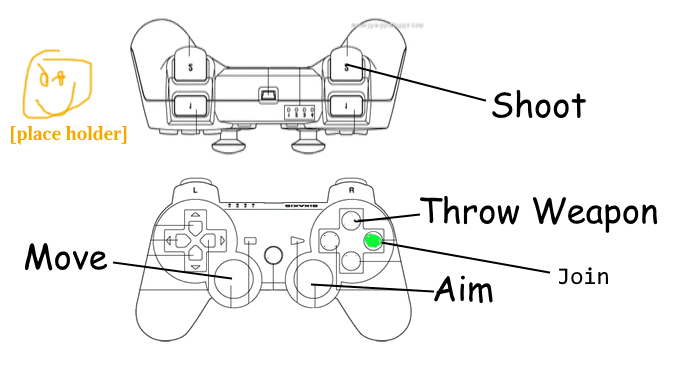
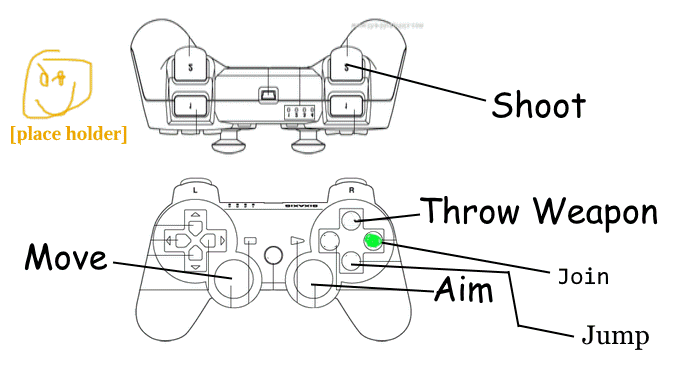
jump explosion

Changed region(s): [[0.8077, 0.8417, 0.963, 0.9288], [0.5281, 0.6966, 0.7456, 0.7256], [0.7456, 0.7256, 0.8077, 0.8707]]

diff --git a/Assets/Scripts/Weapons/WeaponUser.cs b/Assets/Scripts/Weapons/WeaponUser.cs
@@ -17,7 +17,14 @@ public class WeaponUser : MonoBehaviour
     public Weapon carriedWeapon = null;
     [HideInInspector] public int shotsFired = 0;
 
-    bool shooting = false;
+    private bool shooting = false;
+
+    private GroundChecker groundChecker;
+
+    private void Start()
+    {
+        groundChecker = GetComponent<GroundChecker>();
+    }
 
     private void Update()
     {
@@ -29,19 +36,28 @@ public class WeaponUser : MonoBehaviour
 
     private void OnFire(InputValue value)
     {
-        if(value.Get<float>() > 0.5f)
-        {
+        if(value.Get<float>() > 0.5f) {
             shooting = true;
             //TryFireWeapon();
         }
-        else
-        {
+        else {
             shooting= false;
         }
     }
     private void OnNorthButtonDown(InputValue value)
     {
-        ThrowWeapon();
+        if(groundChecker == null)
+        {
+            ThrowWeapon();
+            return;
+        }
+
+        if(groundChecker.IsGrounded) {
+            ThrowWeapon();
+        }
+        else {
+            ThrowWeaponExplosivly();
+        }
     }
 
     private void TryFireWeapon()
@@ -121,6 +137,40 @@ public class WeaponUser : MonoBehaviour
             wpRb.AddForce(transform.TransformDirection(Vector3.up) * 3f, ForceMode.Impulse);
             collider.isTrigger = false;
         }
+
+        carriedWeapon = null;
+    }
+
+    private void ThrowWeaponExplosivly()
+    {
+        if (carriedWeapon == null) { return; }
+        //if (carriedWeapon.ammoCount > 0) { return; } // TODO: Once ammo count is balanced, enable this check.
+
+        Collider collider = carriedWeapon.GetComponent<Collider>();
+        if (collider == null)
+        {
+            Destroy(carriedWeapon.gameObject);
+            carriedWeapon = null;
+            return;
+        }
+
+        Vector3 dropPosition = transform.position + transform.forward * 1.5f;
+        dropPosition.y += 1f;
+        Quaternion dropRotation = Quaternion.Euler(45f, 0, 0f);
+
+        carriedWeapon.gameObject.SetActive(true);
+        carriedWeapon.transform.position = dropPosition;
+        carriedWeapon.transform.rotation *= dropRotation;
+        carriedWeapon.transform.SetParent(null);
+        collider.enabled = true;
+
+        Rigidbody wpRb = carriedWeapon.AddComponent<Rigidbody>();
+
+        Vector3 launchDirection = carriedWeapon.transform.forward.normalized;
+        wpRb.AddForce(launchDirection * weaponLaunchForce * 5f, ForceMode.Impulse);
+        collider.isTrigger = false;
+
+        carriedWeapon.ReadyExplodeOnImpact();
 
         carriedWeapon = null;
     }

diff --git a/Assets/Scripts/Weapons/Weapon.cs b/Assets/Scripts/Weapons/Weapon.cs
@@ -17,6 +17,10 @@ public class Weapon : MonoBehaviour
     [SerializeField] protected float ammoSpeed = 3f;
     [SerializeField] protected Vector3 ammoDirOffSet = Vector3.zero;
     [SerializeField] protected float destroyDelay = 5f;
+
+    [SerializeField] protected GameObject explosionPrefab;
+    protected bool explodeOnImpact = false;
+
     protected int shotsFired = 0;
 
     public virtual bool TryShoot()
@@ -88,12 +92,18 @@ public class Weapon : MonoBehaviour
 
     private void OnCollisionEnter(Collision collision)
     {
-        if (collision.gameObject.TryGetComponent<KnockBackHandler>(out KnockBackHandler hit))
-        {
+        if(explodeOnImpact) {
+            if(explosionPrefab != null) {
+                Instantiate(explosionPrefab, transform.position, Quaternion.identity);
+                Destroy(gameObject);
+                return;
+            }
+        }
+
+        if (collision.gameObject.TryGetComponent<KnockBackHandler>(out KnockBackHandler hit)) {
             Rigidbody rb = gameObject.GetComponent<Rigidbody>();
 
-            if(rb != null) 
-            {
+            if(rb != null)  {
                 Vector3 dir = rb.velocity.normalized;
                 dir.y = 0;
                 Vector3 velocityCheck = rb.velocity;
@@ -106,8 +116,12 @@ public class Weapon : MonoBehaviour
         DestroyAfterDelay();
     }
 
-    protected virtual void DestroyAfterDelay()
-    {
+    public void ReadyExplodeOnImpact() {
+        explodeOnImpact = true;
+        Destroy(gameObject, 20f);
+    }
+
+    protected virtual void DestroyAfterDelay() {
         Destroy(gameObject, destroyDelay);
     }
 }
